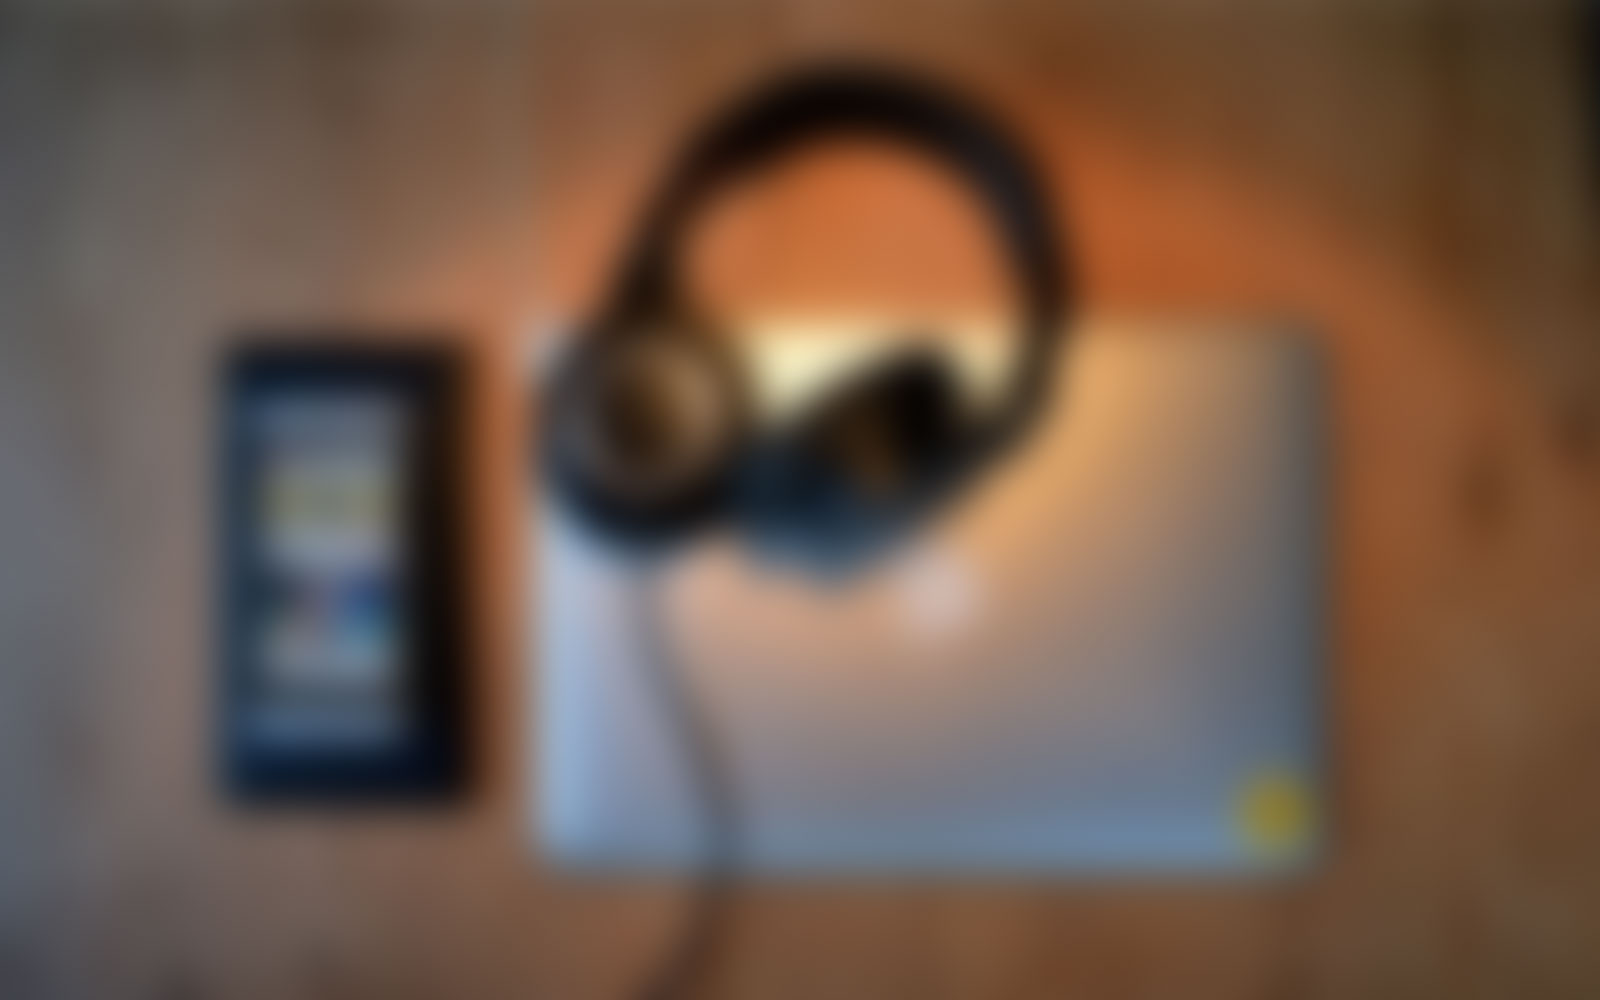
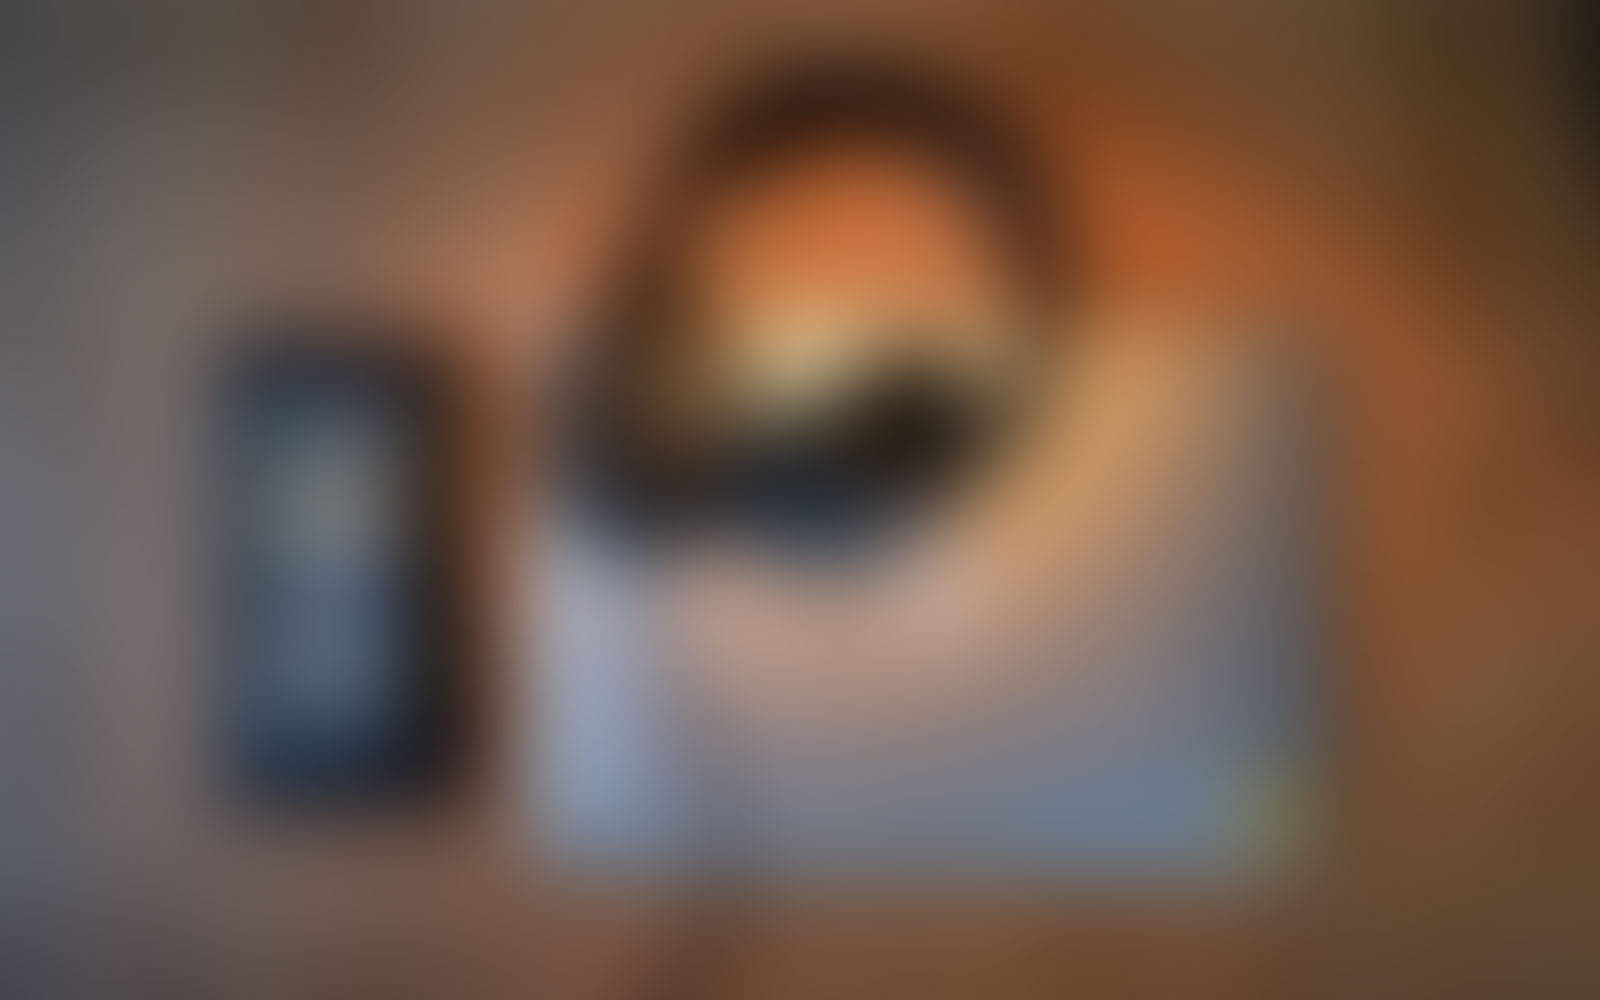
footer changes, more blurry image

Changed region(s): [[0.125, 0.062, 0.7188, 0.868], [0.625, 0.775, 0.8125, 0.868], [0.4688, 0.837, 0.5, 0.868]]

diff --git a/index.html b/index.html
@@ -35,7 +35,7 @@
             <a id="logo" href="/"><img class="logoimg" src="img/logo.png" alt="Tom Rich logo"/></a>
         </header>
         <section id="hero">
-        <div id="hero-blurred" data-0="opacity:0" data-200="opacity:1;"></div>
+        <div id="hero-blurred" data-0="opacity:0" data-300="opacity:1;"></div>
             <div class="hero-text" data-0="opacity:1; top: 220px;" data-500="opacity:0; top: 350px;">
                 <h1 class="">Tom Rich</h1>
                 <h2 class="">I film things, write things and edit things</h2>

diff --git a/css/main.css b/css/main.css
@@ -406,7 +406,7 @@ section#contact {
     position: relative;
     background-color: #2D2D2D;
     width: 100%;
-    height: 150px;
+    height: 100px;
     text-align: center;
 -webkit-transition: background-color 0.3s ease;
 -moz-transition: background-color 0.3s ease;
@@ -432,8 +432,8 @@ section#contact ul li {
 }
 
 .social-icons {
-    font-size: 4em;
-    color: #C5C4C4;
+    font-size: 3.2em;
+    color: rgba(197, 196, 196, 0.3);
 -webkit-transition: color 0.3s ease;
 -moz-transition: color 0.3s ease;
 -o-transition: color 0.3s ease;
